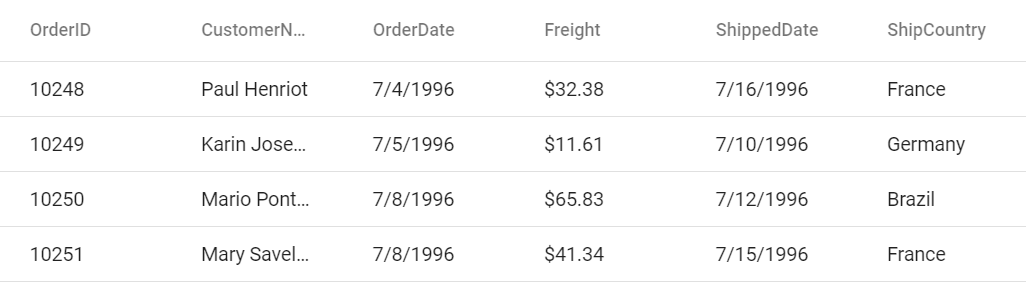
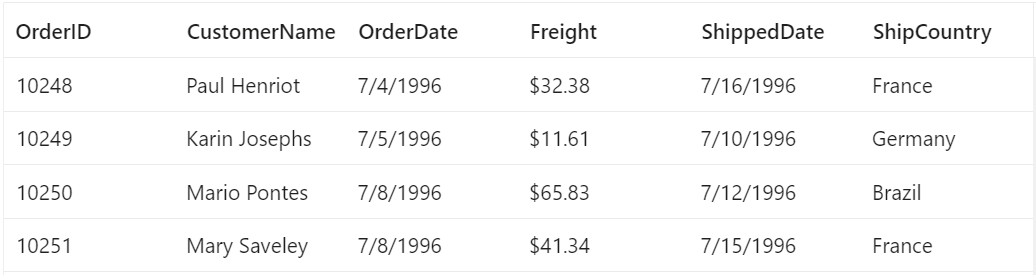
Themes were updated.

diff --git a/README.md b/README.md
@@ -31,16 +31,6 @@ Syncfusion Grid component package is available at [pypi.org](https://pypi.org/pr
 pip install ej2-streamlit-grids
 ```
 
-## Add Syncfusion Grid Themes
-
-You can change themes for the Syncfusion Grid component from CDN. Refer to [themes topic](https://ej2.syncfusion.com/react/documentation/appearance/theme/) to know more about built-in themes.
-
-In this article, `Material` theme is applied to Grid component by default. To change various themes in Grid component. Refer to the below code-snippet.
-
-```py
-props.theme = 'https://cdn.syncfusion.com/ej2/21.1.35/bootstrap5.css'
-```
-
 ## Add Syncfusion Grid component
 
 Follow the below steps to add the Syncfusion Grid component to the Streamlit Python project:
@@ -69,6 +59,12 @@ OrderID, CustomerName, OrderDate, Freight, ShippedDate, ShipCountry
 10251, Mary Saveley, 7/8/1996, $41.34, 7/15/1996, France
 ```
 
+  4. Syncfusion components come with pre-defined themes that are built-in. To learn more about these themes, you can refer to the [themes topic](https://ej2.syncfusion.com/react/documentation/appearance/theme/). By default, the Syncfusion Streamlit Grid component uses the `Material` theme, but users have the ability to change the theme of the Grid component at the application level. The Grid component in this article is using the `Fluent` theme, which is referenced using the code snippet below.
+
+```py
+props.theme = 'https://cdn.syncfusion.com/ej2/21.1.35/fluent.css'
+```
+
 Here is the summarized code for the above steps in the **demo.py** file:
 
 ```py
@@ -77,6 +73,7 @@ import pandas as pd
 
 data = pd.read_csv('dataset.csv')
 props = GridProps(data)
+props.theme = 'https://cdn.syncfusion.com/ej2/21.1.35/fluent.css'
 
 GridComponent(props)
 ```
